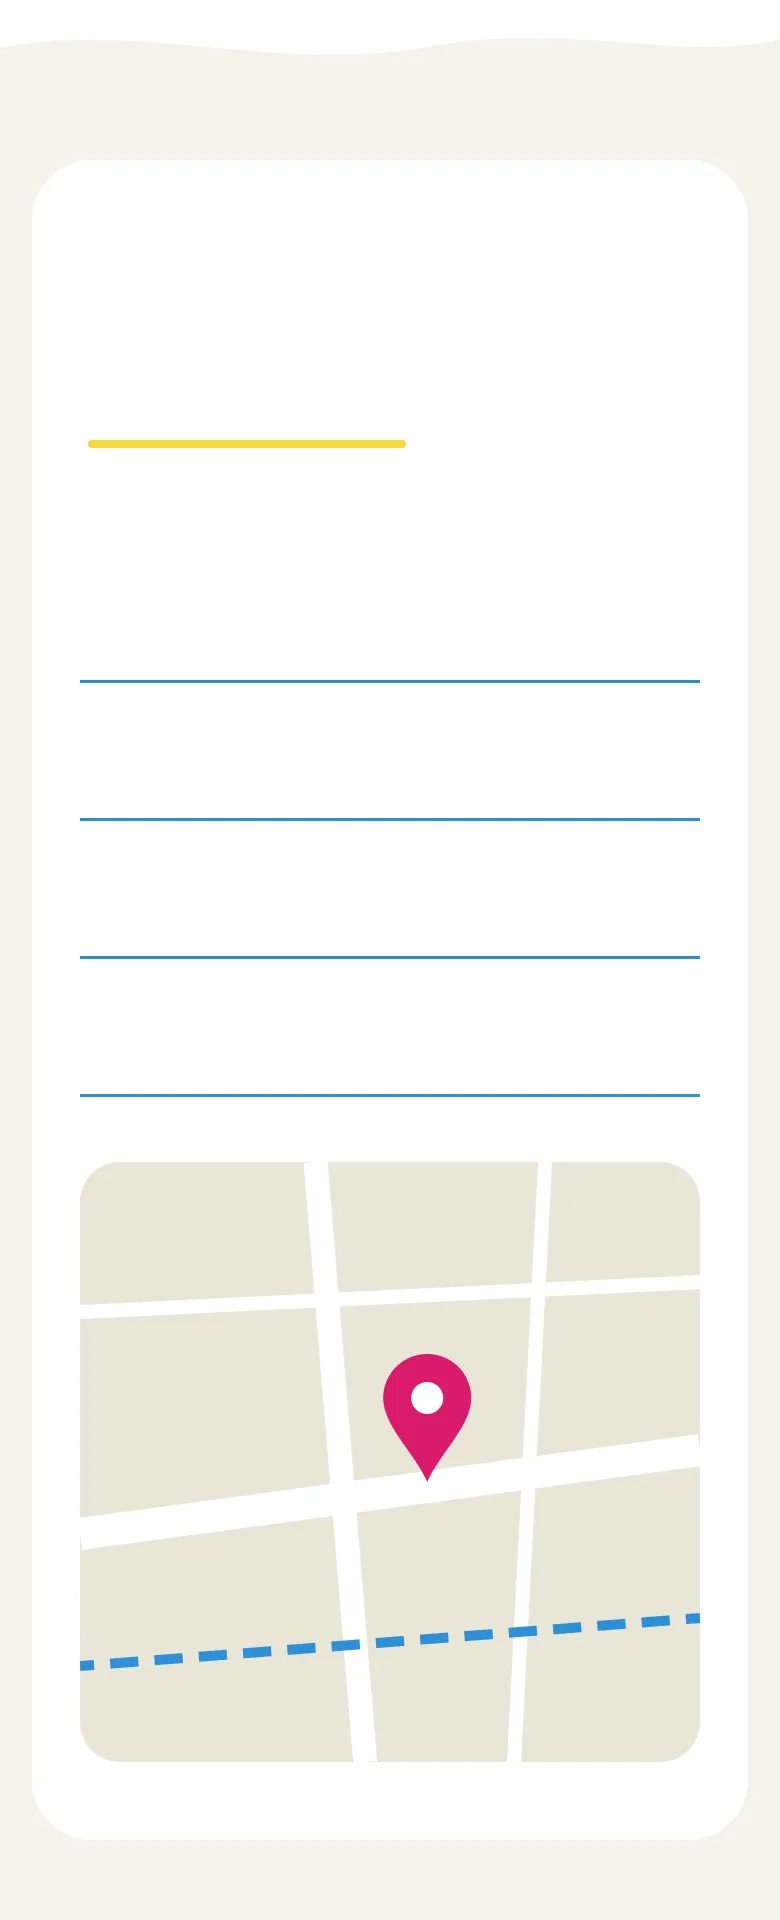
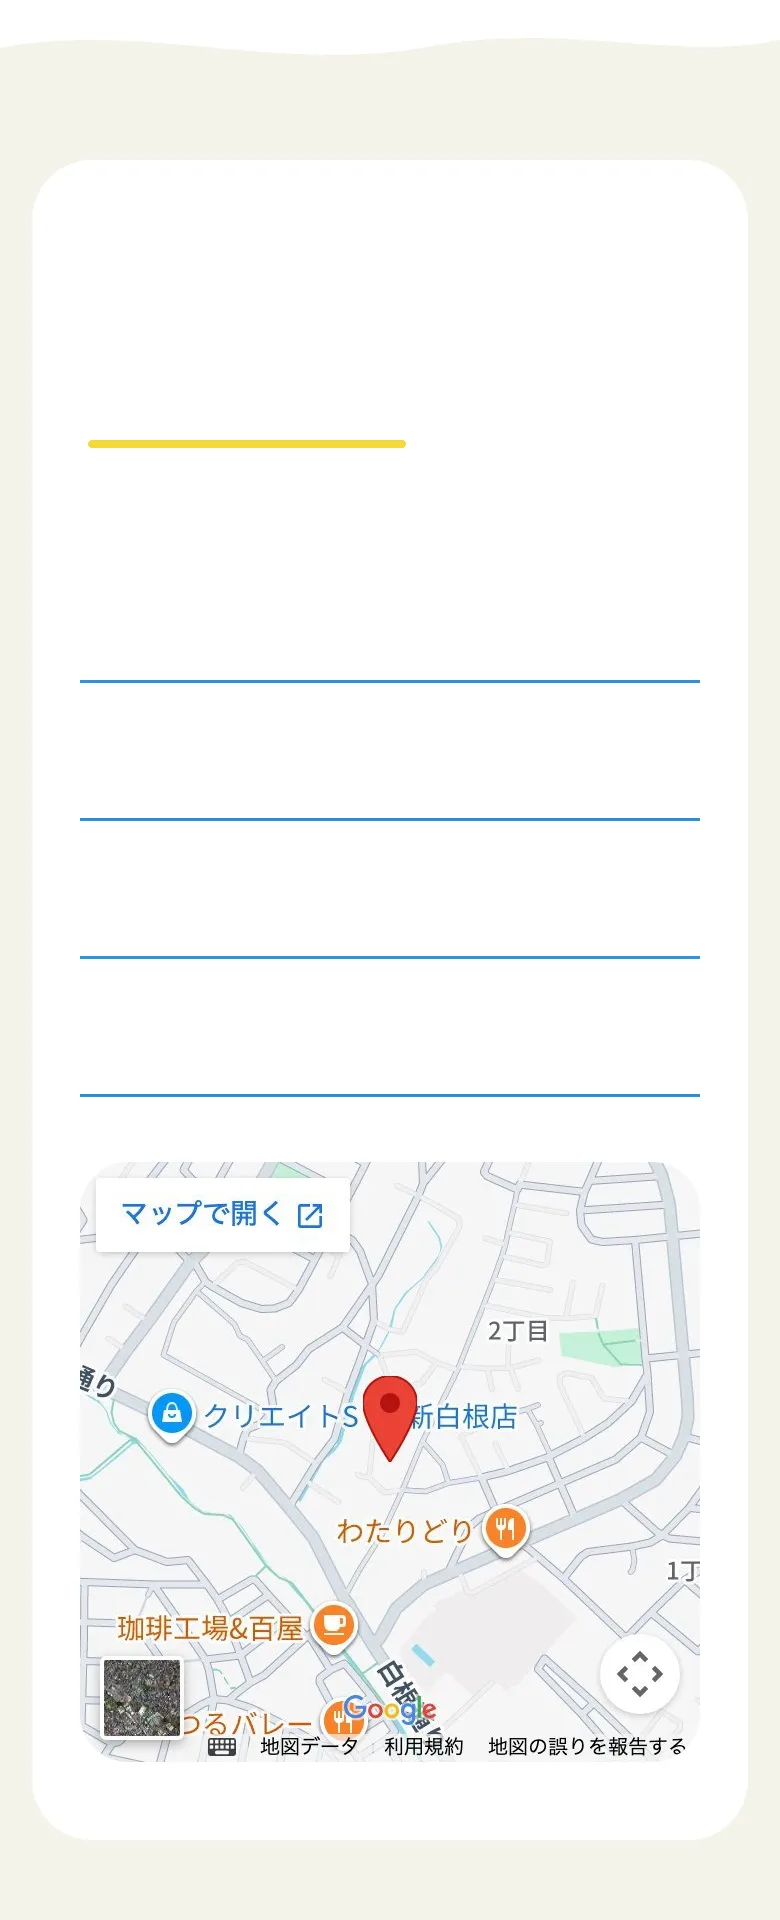
アクセスの地図をGoogleマップに、講師名を森岡仁美さんに

Changed region(s): [[0.0923, 0.5938, 0.9231, 0.9375]]

diff --git a/index.html b/index.html
@@ -122,7 +122,7 @@
 <h2 class="t" style="left:853px;top:246px;width:65px;line-height:23px;font:700 16px/23px var(--jp);color:#333333;letter-spacing:0em;text-align:left">講師紹介</h2>
 <a class="hit" href="#teacher" style="left:845px;top:238px;width:80px;height:39px" aria-label="講師紹介"></a>
 <p class="t" style="left:850px;top:335px;width:166px;line-height:22px;font:700 15px/22px var(--jp);color:#6b6b6b;letter-spacing:0em;text-align:left">講師｜壁画アーティスト</p>
-<p class="t" style="left:850px;top:364px;width:289px;line-height:46px;font:700 32px/46px var(--jp);color:#333333;letter-spacing:0em;text-align:left">【要確認：講師名】</p>
+<p class="t" style="left:850px;top:364px;width:138px;line-height:46px;font:700 32px/46px var(--jp);color:#333333;letter-spacing:0em;text-align:left">森岡 仁美</p>
 <p class="t" style="left:850px;top:438px;width:406px;line-height:23px;font:400 16px/23px var(--jp);color:#333333;letter-spacing:0em;text-align:left">女子美術大学 日本画専攻卒業。壁画・造作の制作に携わ</p>
 <p class="t" style="left:850px;top:470px;width:417px;line-height:23px;font:400 16px/23px var(--jp);color:#333333;letter-spacing:0em;text-align:left">ったのち独立。手描き壁画、アートパネル、ミニチュアの</p>
 <p class="t" style="left:850px;top:502px;width:409px;line-height:23px;font:400 16px/23px var(--jp);color:#333333;letter-spacing:0em;text-align:left">制作などを手がけています。世田谷の絵画教室で2年以上</p>
@@ -182,7 +182,7 @@
 <p class="t" style="left:261.5px;top:941px;width:14px;line-height:26px;font:400 18px/26px 'Darumadrop One',var(--jp);color:#d81b6a;letter-spacing:0em;text-align:center">A</p>
 </section>
 <section class="sec f-1-919" id="access" aria-label="アクセス">
-<img class="bg" src="assets/img/s-1-919.webp" width="1440" height="770" alt="地図のイメージ" loading="lazy" decoding="async">
+<img class="bg" src="assets/img/s-1-919.webp" width="1440" height="770" alt="教室の場所の地図" loading="lazy" decoding="async">
 <p class="t" style="left:200px;top:168px;width:156px;line-height:75px;font:400 52px/75px 'Darumadrop One',var(--jp);color:#333333;letter-spacing:0em;text-align:left">Access</p>
 <h2 class="t" style="left:203px;top:246px;width:145px;line-height:23px;font:700 16px/23px var(--jp);color:#333333;letter-spacing:0em;text-align:left">教室までのアクセス</h2>
 <p class="t" style="left:206px;top:345px;width:31px;line-height:22px;font:700 15px/22px var(--jp);color:#333333;letter-spacing:0em;text-align:left">住所</p>
@@ -193,6 +193,7 @@
 <p class="t" style="left:340px;top:493px;width:157px;line-height:22px;font:400 15px/22px var(--jp);color:#333333;letter-spacing:0em;text-align:left">第1〜第3金曜（月3回）</p>
 <p class="t" style="left:206px;top:567px;width:91px;line-height:22px;font:700 15px/22px var(--jp);color:#333333;letter-spacing:0em;text-align:left">お問い合わせ</p>
 <p class="t" style="left:340px;top:567px;width:104px;line-height:22px;font:400 15px/22px var(--jp);color:#333333;letter-spacing:0em;text-align:left">InstagramのDM</p>
+<iframe class="map" src="https://maps.google.com/maps?q=%E6%A8%AA%E6%B5%9C%E5%B8%82%E6%97%AD%E5%8C%BA%E4%B8%AD%E7%99%BD%E6%A0%B92-13-32&amp;z=16&amp;hl=ja&amp;output=embed" title="教室の地図（Googleマップ）" loading="lazy" referrerpolicy="no-referrer-when-downgrade" style="left:720px;top:180px;width:520px;height:460px;border-radius:32px"></iframe>
 </section>
 <section class="sec f-1-981" id="apply" aria-label="お申込み・フッター">
 <img class="bg" src="assets/img/s-1-981.webp" width="1440" height="980" alt="" loading="lazy" decoding="async">
@@ -314,7 +315,7 @@
 <h2 class="t" style="left:167px;top:146px;width:57px;line-height:20px;font:700 14px/20px var(--jp);color:#333333;letter-spacing:0em;text-align:center">講師紹介</h2>
 <a class="hit" href="#teacher" style="left:159px;top:138px;width:72px;height:36px" aria-label="講師紹介"></a>
 <p class="t" style="left:24px;top:613px;width:144px;line-height:19px;font:700 13px/19px var(--jp);color:#6b6b6b;letter-spacing:0em;text-align:left">講師｜壁画アーティスト</p>
-<p class="t" style="left:24px;top:638px;width:235px;line-height:38px;font:700 26px/38px var(--jp);color:#333333;letter-spacing:0em;text-align:left">【要確認：講師名】</p>
+<p class="t" style="left:24px;top:638px;width:113px;line-height:38px;font:700 26px/38px var(--jp);color:#333333;letter-spacing:0em;text-align:left">森岡 仁美</p>
 <p class="t" style="left:24px;top:696px;width:257px;line-height:20px;font:400 14px/20px var(--jp);color:#333333;letter-spacing:0em;text-align:left">女子美術大学 日本画専攻卒業。壁画・造</p>
 <p class="t" style="left:24px;top:723px;width:281px;line-height:20px;font:400 14px/20px var(--jp);color:#333333;letter-spacing:0em;text-align:left">作の制作に携わったのち独立。手描き壁画、</p>
 <p class="t" style="left:24px;top:750px;width:267px;line-height:20px;font:400 14px/20px var(--jp);color:#333333;letter-spacing:0em;text-align:left">アートパネル、ミニチュアの制作などを手</p>
@@ -383,7 +384,7 @@
 <p class="t" style="left:49px;top:826px;width:11px;line-height:20px;font:400 14px/20px 'Darumadrop One',var(--jp);color:#d81b6a;letter-spacing:0em;text-align:center">A</p>
 </section>
 <section class="sec f-1-1506" aria-label="アクセス">
-<img class="bg" src="assets/img/s-1-1506.webp" width="390" height="960" alt="地図のイメージ" loading="lazy" decoding="async">
+<img class="bg" src="assets/img/s-1-1506.webp" width="390" height="960" alt="教室の場所の地図" loading="lazy" decoding="async">
 <p class="t" style="left:44px;top:130px;width:120px;line-height:58px;font:400 40px/58px 'Darumadrop One',var(--jp);color:#333333;letter-spacing:0em;text-align:left">Access</p>
 <h2 class="t" style="left:47px;top:196px;width:127px;line-height:20px;font:700 14px/20px var(--jp);color:#333333;letter-spacing:0em;text-align:left">教室までのアクセス</h2>
 <p class="t" style="left:44px;top:272px;width:27px;line-height:19px;font:700 13px/19px var(--jp);color:#333333;letter-spacing:0em;text-align:left">住所</p>
@@ -394,6 +395,7 @@
 <p class="t" style="left:150px;top:435px;width:136px;line-height:19px;font:400 13px/19px var(--jp);color:#333333;letter-spacing:0em;text-align:left">第1〜第3金曜（月3回）</p>
 <p class="t" style="left:44px;top:504px;width:79px;line-height:19px;font:700 13px/19px var(--jp);color:#333333;letter-spacing:0em;text-align:left">お問い合わせ</p>
 <p class="t" style="left:150px;top:504px;width:90px;line-height:19px;font:400 13px/19px var(--jp);color:#333333;letter-spacing:0em;text-align:left">InstagramのDM</p>
+<iframe class="map" src="https://maps.google.com/maps?q=%E6%A8%AA%E6%B5%9C%E5%B8%82%E6%97%AD%E5%8C%BA%E4%B8%AD%E7%99%BD%E6%A0%B92-13-32&amp;z=16&amp;hl=ja&amp;output=embed" title="教室の地図（Googleマップ）" loading="lazy" referrerpolicy="no-referrer-when-downgrade" style="left:40px;top:581px;width:310px;height:300px;border-radius:24px"></iframe>
 </section>
 <section class="sec f-1-1539" aria-label="お申込み・フッター">
 <img class="bg" src="assets/img/s-1-1539.webp" width="390" height="900" alt="" loading="lazy" decoding="async">

diff --git a/assets/css/style.css b/assets/css/style.css
@@ -12,6 +12,7 @@ h1.t,h2.t{font-weight:inherit}
 .hit{position:absolute;border-radius:999px;z-index:2}
 .hit:focus-visible{outline:3px solid #2a7de1;outline-offset:2px}
 .anchor{position:absolute;left:0}
+.map{position:absolute;border:0;display:block;z-index:3;background:#e8e5d8}
 /* 768〜1023px はスマホ版を最大1.6倍で中央に置く（PC版を縮めると文字が小さくなりすぎるため） */
 @media (max-width:1023px){.col--pc{display:none}.col--sp{display:block;margin:0 auto}}
 @media (min-width:768px) and (max-width:1023px){body{background:#f4f3ea}.col--sp{background:#fff;box-shadow:0 0 0 1px #e6e3d6}}
